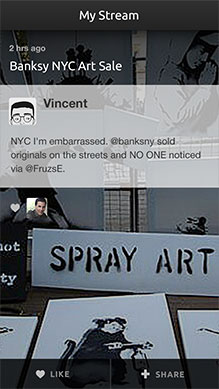
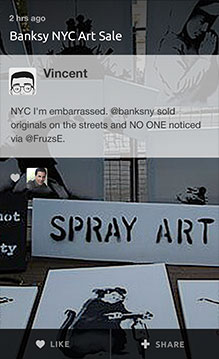
revising assets and interactions with iphone

diff --git a/app/assets/stylesheets/partials/_landing-page__iphone.scss b/app/assets/stylesheets/partials/_landing-page__iphone.scss
@@ -17,45 +17,33 @@
     margin-top: 60px;
     position: relative;
     padding-top: 57.8%;
-    -webkit-transition: all .25s;
-    width: 259px;
-
-    img {
-      left: 0;
-      position: absolute;
-      top: 0;
-
-      &:first-child {
-        opacity: 1;
-      }
-      // &:last-child {
-      //   opacity: 0;
-      // }
-    }
   }
   .iphone--horizontal {
     margin-right: 33%;
     margin-top: 75px;
-    -webkit-transform: rotate(-90deg);
-       -moz-transform: rotate(-90deg);
-        -ms-transform: rotate(-90deg);
-            transform: rotate(-90deg);
 
-    // img {
-    //   &:first-child {
-    //     // opacity: 0;
-    //   }
-    //   &:last-child {
-    //     opacity: 1;
-    //   }
-    // }
+    .slide {
+      width: 437px;
+    }
   }
 }
-  .iphone__viewport {
-    background-image: url(/images/landing/_CONTENT/iphone-1a.jpg);
+  .iphone {
+    background-image: url('/images/landing/iphone-1.png');
     background-repeat: no-repeat;
-    background-position: center -30px;
-    height: 390px;
+    background-position: top center;
+    height: 547px;
+    -webkit-transition: all .25s;
+    width: 259px;
+  }
+      .iphone--horizontal {
+        -webkit-transform: rotate(-90deg);
+           -moz-transform: rotate(-90deg);
+            -ms-transform: rotate(-90deg);
+                transform: rotate(-90deg);
+      }
+
+  .iphone__viewport {
+    height: 359px;
     left: 0;
     margin: 111px 22px 0;
     overflow: hidden;
@@ -67,23 +55,23 @@
       @include transition-property(margin-top, margin-left);
       @include transition-duration(0.25s);
 
+      height: inherit;
       left: inherit;
-      margin-top: 179%;
-      position: inherit;
+      position: relative;
       top: inherit;
-      width: 380px;
-
-      img:last-child {
-        margin-left: 218px;
-      }
+      width: 438px;
 
       &.show {
-        margin-top: -30px;
+        margin-top: -359px;
+      }
 
-        &.show--hover,
-        &:hover {
-          margin-left: -219px;
-        }
+      &.show--hover,
+      &:hover {
+        margin-left: -219px;
+      }
+
+      img {
+        float: left;
       }
     }
   }

diff --git a/app/assets/stylesheets/partials/_landing-page__social.scss b/app/assets/stylesheets/partials/_landing-page__social.scss
@@ -20,11 +20,17 @@
   .shelf__h1 {
     margin-top: 2.5em;
   }
-    .shelf__img--iphone {
-      margin-top: -100px;
-      -webkit-transform: rotate(-90deg);
-         -moz-transform: rotate(-90deg);
-          -ms-transform: rotate(-90deg);
-              transform: rotate(-90deg);
-    }
+
+  .iphone {
+    margin: -75px auto 0;
+  }
+  .iphone__viewport {
+    height: 389px;
+    margin-top: 81px;
+
+    // .slide {
+    //   height: 388px;
+    //   width: 218px;
+    // }
+  }
 }

diff --git a/app/assets/stylesheets/partials/_landing-page__cta.scss b/app/assets/stylesheets/partials/_landing-page__cta.scss
@@ -1,5 +1,5 @@
 .shelf__wrapper--cta {
-  background-image: url(/images/landing/bg-1.jpg);
+  background-image: url(/images/landing/_CONTENT/laptop-1.jpg);
   background-position: 86% 71%;
   background-repeat: no-repeat;
 }
